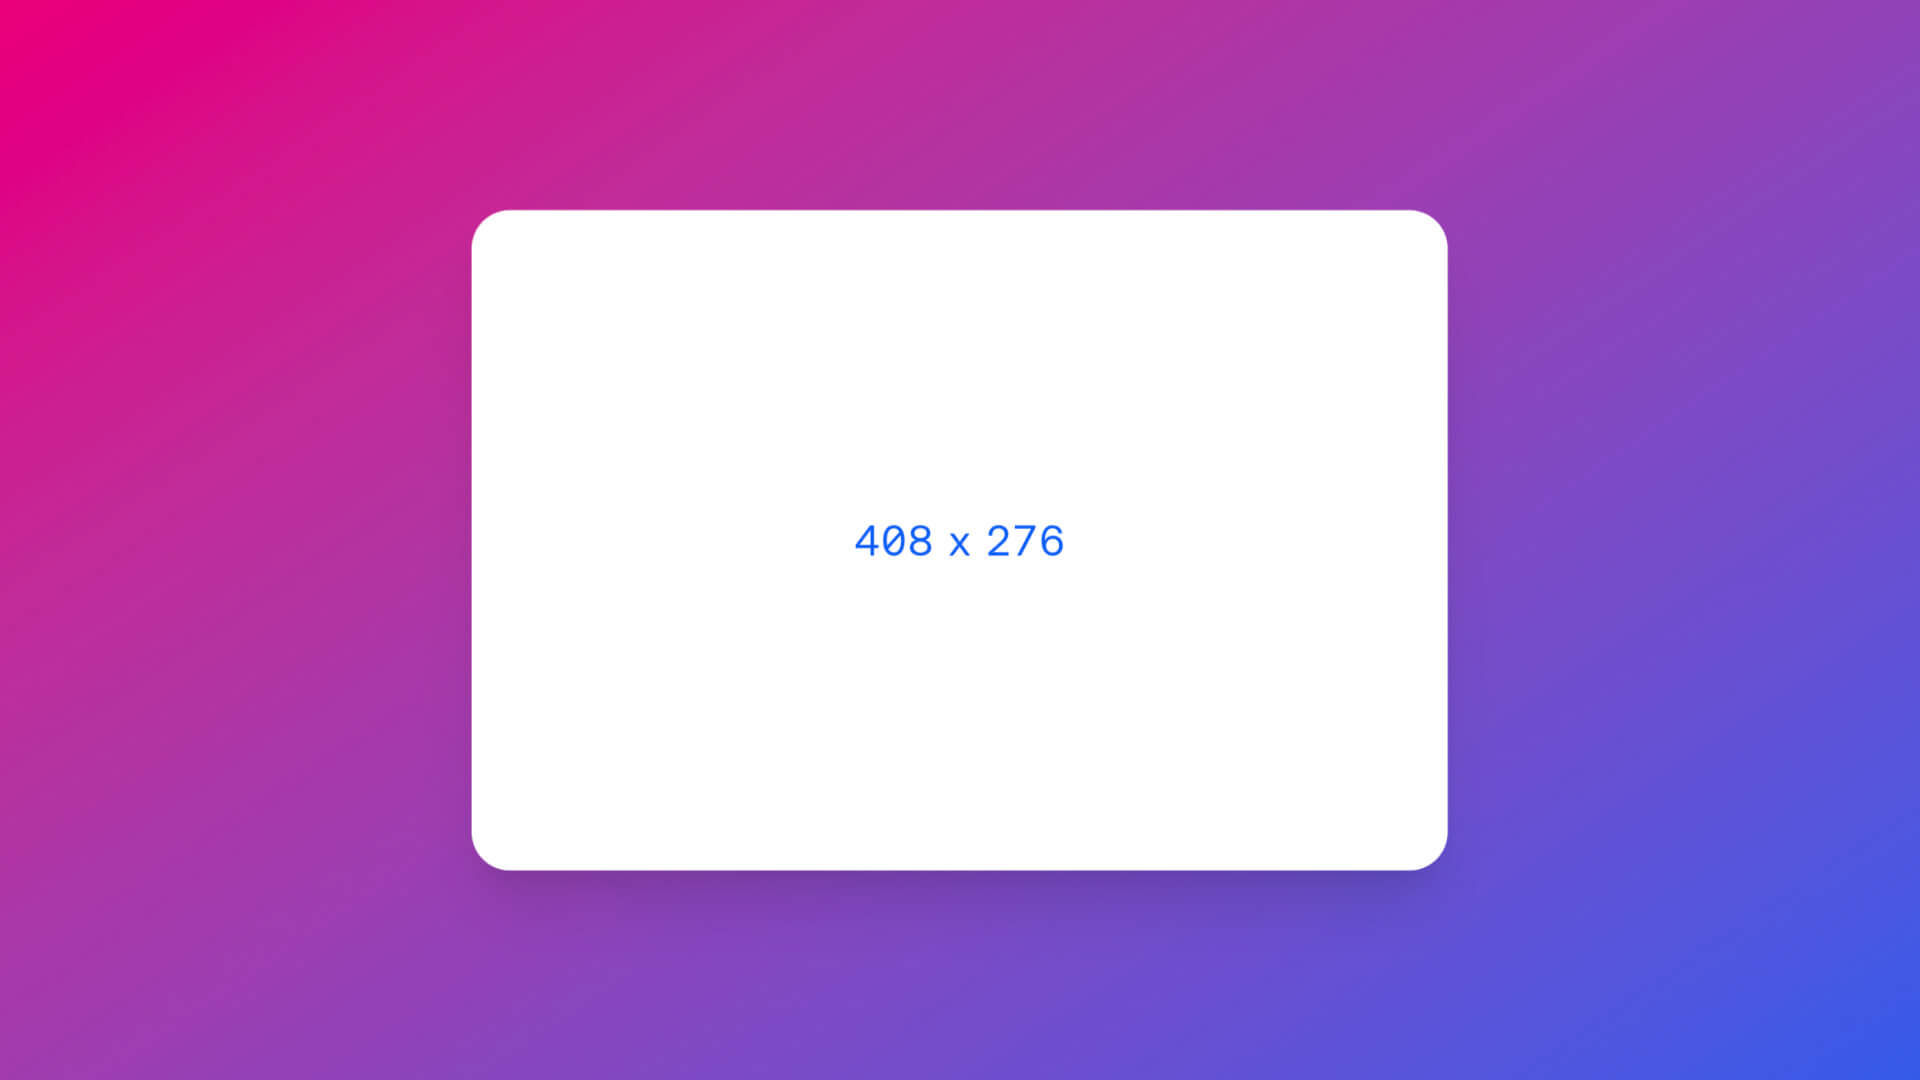
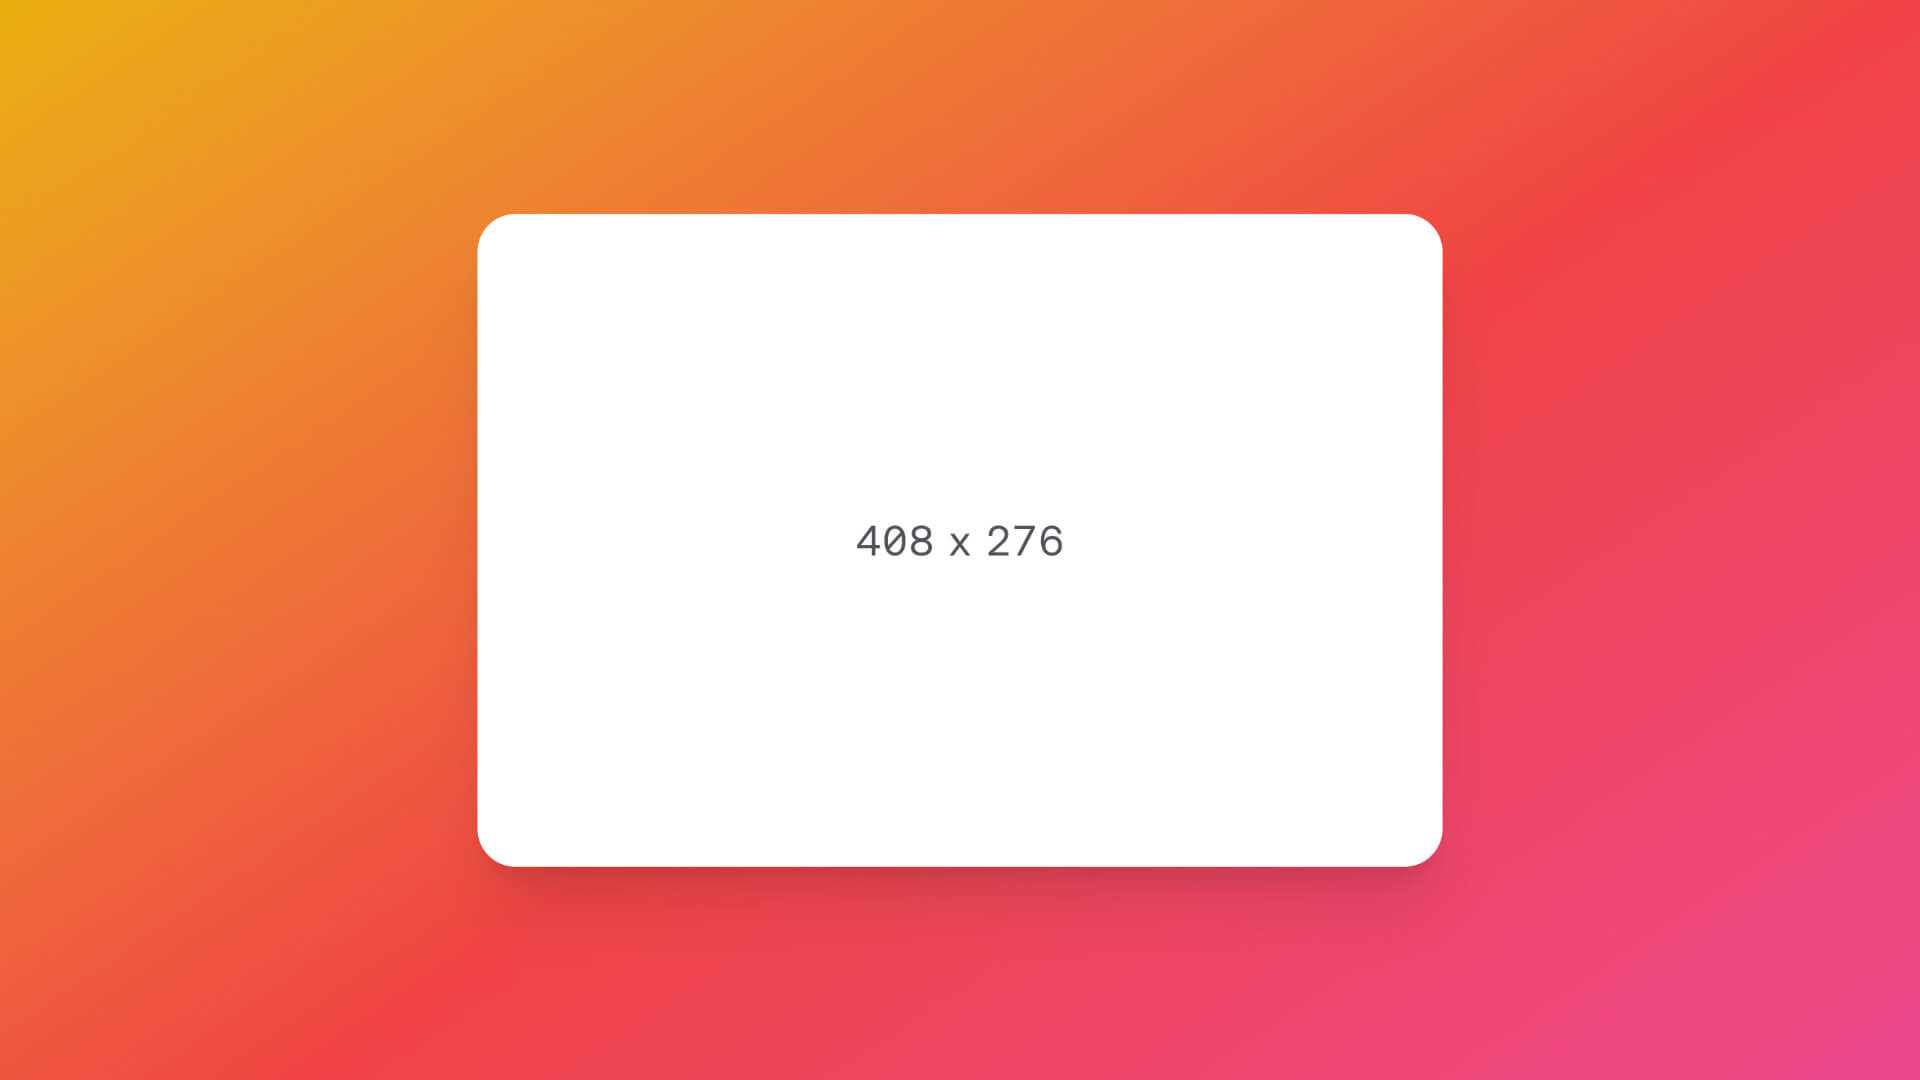
finished snippet cards

diff --git a/components/content/snippets/SnippetCard.tsx b/components/content/snippets/SnippetCard.tsx
@@ -3,6 +3,7 @@ import NextImage from "next/future/image";
 import Button from "components/content/shared/CardButton";
 import { type Snippet } from "contentlayer/generated";
 import { useState } from "react";
+import FrameworkBadge from "./FrameworkBadge";
 
 interface Props {
   data: Snippet;
@@ -25,27 +26,20 @@ const SnippetCard = ({ data }: Props) => {
               quality="60"
               alt="foo"
             ></NextImage>
-            <span className="absolute top-4 left-4 font-medium text-sm text-white p-2 bg-black/60 rounded-full backdrop-blur-md">
-              {/* {data.framework} */}
-              <svg
-                xmlns="http://www.w3.org/2000/svg"
-                viewBox="0 0 24 24"
-                xmlSpace="preserve"
-                className="w-6"
-              >
-                <path
-                  d="M13.961 12c0 1.083-.878 1.961-1.961 1.961-1.083 0-1.961-.878-1.961-1.961s.878-1.961 1.961-1.961c1.083 0 1.961.878 1.961 1.961zm4.415 3.682c.708 2.839.458 5.074-.876 5.844-.329.191-.701.284-1.109.284-.974 0-2.154-.535-3.433-1.575-.319-.26-.639-.553-.958-.863-.319.31-.639.604-.958.863-1.279 1.04-2.459 1.575-3.433 1.575-.408 0-.78-.093-1.109-.284-1.335-.77-1.585-3.006-.877-5.844C2.811 14.875 1 13.541 1 12c0-1.54 1.808-2.873 4.617-3.679-.11-.433-.205-.859-.27-1.268-.37-2.31.04-3.936 1.153-4.58 1.114-.643 2.726-.184 4.542 1.292.321.26.642.556.962.867 2.102-2.029 4.16-2.928 5.496-2.159 1.334.771 1.584 3.006.876 5.845C21.189 9.125 23 10.459 23 12s-1.811 2.875-4.624 3.682zM16.394 3.149c-.926 0-2.273.761-3.725 2.166.636.688 1.26 1.463 1.858 2.308 1.043.097 2.025.251 2.925.457.618-2.466.435-4.279-.43-4.779-.178-.102-.389-.152-.628-.152zM15.999 12c-.279-.578-.588-1.169-.934-1.769-.339-.588-.695-1.154-1.063-1.693-.641-.049-1.308-.077-2.002-.077-.694 0-1.36.028-2.001.076-.361.53-.718 1.093-1.064 1.693-.347.601-.656 1.193-.935 1.772.284.588.596 1.179.935 1.767.34.588.696 1.155 1.063 1.694.641.048 1.308.076 2.002.076.694 0 1.361-.028 2.002-.076.368-.54.724-1.106 1.063-1.694.346-.6.655-1.191.934-1.769zm-.107 2.247c-.216.375-.44.738-.669 1.094.702-.088 1.358-.205 1.97-.343-.186-.599-.413-1.225-.687-1.877-.194.374-.396.75-.614 1.126zm-2.613 2.218c-.42.019-.845.031-1.279.031-.434 0-.86-.012-1.28-.031.418.552.846 1.065 1.28 1.536.433-.471.861-.984 1.279-1.536zm-5.173-2.218c-.216-.374-.418-.75-.613-1.125-.274.652-.501 1.278-.687 1.877.612.138 1.267.255 1.969.343-.228-.357-.453-.72-.669-1.095zm0-4.495c.217-.376.441-.739.667-1.093-.702.088-1.358.206-1.97.344.191.61.421 1.236.69 1.874.194-.374.396-.749.613-1.125zm2.615-2.216c.42-.019.845-.031 1.279-.031.434 0 .86.012 1.28.031-.419-.553-.847-1.066-1.281-1.538-.424.46-.852.976-1.278 1.538zm5.785 3.342c.274-.651.501-1.278.687-1.876-.612-.138-1.268-.255-1.969-.343.228.357.452.719.668 1.094.218.376.42.751.614 1.125zM6.543 8.082c.901-.207 1.885-.362 2.929-.458.607-.857 1.232-1.631 1.862-2.309-.299-.29-.598-.565-.896-.807-1.098-.894-2.083-1.364-2.816-1.364-.244 0-.46.052-.644.158-.735.424-.985 1.736-.687 3.6.061.379.15.776.252 1.18zm-.664 6.68c.272-.883.629-1.81 1.067-2.762-.433-.939-.792-1.867-1.069-2.761-2.443.698-3.92 1.762-3.92 2.761 0 .999 1.478 2.064 3.922 2.762zm5.453 3.925c-.637-.688-1.261-1.464-1.859-2.31-1.043-.097-2.025-.251-2.926-.457-.618 2.466-.435 4.278.431 4.779.735.422 1.996-.016 3.46-1.206.298-.242.596-.517.894-.806zm6.12-2.767c-.9.206-1.883.361-2.926.457-.598.846-1.223 1.622-1.859 2.31.298.289.597.564.894.806 1.464 1.191 2.728 1.629 3.46 1.206.866-.501 1.049-2.314.431-4.779zM22.043 12c0-.999-1.479-2.064-3.923-2.762-.272.883-.629 1.81-1.067 2.762.438.952.795 1.88 1.067 2.762 2.445-.698 3.923-1.763 3.923-2.762z"
-                  fill="#61dafb"
-                />
-              </svg>
-            </span>
+            <div className="absolute top-4 left-4 p-2 bg-black/60 rounded-full backdrop-blur-md">
+              <div className="w-6">
+                <FrameworkBadge lang={data.framework} />
+              </div>
+            </div>
           </div>
           <div className="relative flex flex-col items-start gap-y-3 grow p-4 pt-6 pb-24 w-full">
             <h3 className="font-bold text-2xl">{data.title}</h3>
             <p className="text-sm">{data.summary}</p>
             <div className="absolute left-4 right-4 bottom-4 flex justify-between items-center border-t border-black/10 dark:border-white/20 pt-4">
               <Button focusable={false} trigger={count}></Button>
-              <h6 className="font-medium tracking-wider text-sm">07.08.22</h6>
+              <h6 className="font-medium tracking-wider text-sm">
+                {data.date}
+              </h6>
             </div>
           </div>
         </a>

diff --git a/components/svg/ReactBadge.tsx b/components/svg/ReactBadge.tsx
@@ -1,0 +1,16 @@
+const ReactBadge = () => {
+  return (
+    <svg
+      xmlns="http://www.w3.org/2000/svg"
+      viewBox="0 0 24 24"
+      xmlSpace="preserve"
+    >
+      <path
+        d="M13.961 12c0 1.083-.878 1.961-1.961 1.961-1.083 0-1.961-.878-1.961-1.961s.878-1.961 1.961-1.961c1.083 0 1.961.878 1.961 1.961zm4.415 3.682c.708 2.839.458 5.074-.876 5.844-.329.191-.701.284-1.109.284-.974 0-2.154-.535-3.433-1.575-.319-.26-.639-.553-.958-.863-.319.31-.639.604-.958.863-1.279 1.04-2.459 1.575-3.433 1.575-.408 0-.78-.093-1.109-.284-1.335-.77-1.585-3.006-.877-5.844C2.811 14.875 1 13.541 1 12c0-1.54 1.808-2.873 4.617-3.679-.11-.433-.205-.859-.27-1.268-.37-2.31.04-3.936 1.153-4.58 1.114-.643 2.726-.184 4.542 1.292.321.26.642.556.962.867 2.102-2.029 4.16-2.928 5.496-2.159 1.334.771 1.584 3.006.876 5.845C21.189 9.125 23 10.459 23 12s-1.811 2.875-4.624 3.682zM16.394 3.149c-.926 0-2.273.761-3.725 2.166.636.688 1.26 1.463 1.858 2.308 1.043.097 2.025.251 2.925.457.618-2.466.435-4.279-.43-4.779-.178-.102-.389-.152-.628-.152zM15.999 12c-.279-.578-.588-1.169-.934-1.769-.339-.588-.695-1.154-1.063-1.693-.641-.049-1.308-.077-2.002-.077-.694 0-1.36.028-2.001.076-.361.53-.718 1.093-1.064 1.693-.347.601-.656 1.193-.935 1.772.284.588.596 1.179.935 1.767.34.588.696 1.155 1.063 1.694.641.048 1.308.076 2.002.076.694 0 1.361-.028 2.002-.076.368-.54.724-1.106 1.063-1.694.346-.6.655-1.191.934-1.769zm-.107 2.247c-.216.375-.44.738-.669 1.094.702-.088 1.358-.205 1.97-.343-.186-.599-.413-1.225-.687-1.877-.194.374-.396.75-.614 1.126zm-2.613 2.218c-.42.019-.845.031-1.279.031-.434 0-.86-.012-1.28-.031.418.552.846 1.065 1.28 1.536.433-.471.861-.984 1.279-1.536zm-5.173-2.218c-.216-.374-.418-.75-.613-1.125-.274.652-.501 1.278-.687 1.877.612.138 1.267.255 1.969.343-.228-.357-.453-.72-.669-1.095zm0-4.495c.217-.376.441-.739.667-1.093-.702.088-1.358.206-1.97.344.191.61.421 1.236.69 1.874.194-.374.396-.749.613-1.125zm2.615-2.216c.42-.019.845-.031 1.279-.031.434 0 .86.012 1.28.031-.419-.553-.847-1.066-1.281-1.538-.424.46-.852.976-1.278 1.538zm5.785 3.342c.274-.651.501-1.278.687-1.876-.612-.138-1.268-.255-1.969-.343.228.357.452.719.668 1.094.218.376.42.751.614 1.125zM6.543 8.082c.901-.207 1.885-.362 2.929-.458.607-.857 1.232-1.631 1.862-2.309-.299-.29-.598-.565-.896-.807-1.098-.894-2.083-1.364-2.816-1.364-.244 0-.46.052-.644.158-.735.424-.985 1.736-.687 3.6.061.379.15.776.252 1.18zm-.664 6.68c.272-.883.629-1.81 1.067-2.762-.433-.939-.792-1.867-1.069-2.761-2.443.698-3.92 1.762-3.92 2.761 0 .999 1.478 2.064 3.922 2.762zm5.453 3.925c-.637-.688-1.261-1.464-1.859-2.31-1.043-.097-2.025-.251-2.926-.457-.618 2.466-.435 4.278.431 4.779.735.422 1.996-.016 3.46-1.206.298-.242.596-.517.894-.806zm6.12-2.767c-.9.206-1.883.361-2.926.457-.598.846-1.223 1.622-1.859 2.31.298.289.597.564.894.806 1.464 1.191 2.728 1.629 3.46 1.206.866-.501 1.049-2.314.431-4.779zM22.043 12c0-.999-1.479-2.064-3.923-2.762-.272.883-.629 1.81-1.067 2.762.438.952.795 1.88 1.067 2.762 2.445-.698 3.923-1.763 3.923-2.762z"
+        fill="#61dafb"
+      />
+    </svg>
+  );
+};
+
+export default ReactBadge;

diff --git a/components/svg/SvelteBadge.tsx b/components/svg/SvelteBadge.tsx
@@ -1,0 +1,20 @@
+const SvelteBadge = () => {
+  return (
+    <svg
+      xmlns="http://www.w3.org/2000/svg"
+      viewBox="0 0 24 24"
+      xmlSpace="preserve"
+    >
+      <path
+        d="M19.949 3.91C17.917.984 13.872.126 10.965 1.971L5.839 5.252c-1.398.876-2.367 2.312-2.647 3.933-.242 1.361-.037 2.759.615 3.97-.447.671-.746 1.417-.876 2.199-.298 1.659.093 3.374 1.062 4.735 2.05 2.926 6.077 3.784 8.984 1.939l5.126-3.262c1.398-.876 2.367-2.311 2.647-3.933.242-1.361.037-2.759-.615-3.97.447-.671.746-1.417.876-2.199.317-1.678-.074-3.393-1.062-4.754"
+        fill="#ff3e00"
+      />
+      <path
+        d="M10.461 20.369c-1.659.429-3.392-.224-4.362-1.622-.596-.82-.82-1.845-.652-2.852.037-.168.075-.317.112-.485l.093-.298.261.186c.615.447 1.286.783 2.013 1.007l.186.056-.019.186c-.019.261.056.541.205.764.298.429.82.634 1.323.503.112-.037.224-.075.317-.13l5.107-3.262c.261-.168.429-.41.485-.708.056-.298-.019-.615-.186-.857-.298-.429-.82-.615-1.323-.485-.112.037-.224.075-.317.13l-1.957 1.249c-.317.205-.671.354-1.044.447-1.659.429-3.392-.224-4.362-1.622-.578-.82-.82-1.845-.634-2.852.168-.969.764-1.845 1.603-2.367l5.126-3.262c.317-.205.671-.354 1.044-.466 1.659-.429 3.392.224 4.362 1.622.596.82.82 1.845.652 2.852-.037.168-.075.317-.13.485l-.093.298-.261-.186c-.615-.447-1.286-.783-2.013-1.007l-.186-.056.019-.186c.019-.261-.056-.541-.205-.764-.298-.429-.82-.615-1.323-.485-.112.037-.224.075-.317.13L8.877 9.595c-.261.168-.429.41-.485.708-.056.298.019.615.186.857.298.429.82.615 1.323.485.112-.037.224-.075.317-.13l1.957-1.249c.317-.205.671-.354 1.044-.466 1.659-.429 3.392.224 4.362 1.622.596.82.82 1.845.652 2.852-.168.969-.764 1.845-1.603 2.367l-5.126 3.262c-.316.205-.67.354-1.043.466"
+        fill="#fff"
+      />
+    </svg>
+  );
+};
+
+export default SvelteBadge;

diff --git a/pages/snippets/index.tsx b/pages/snippets/index.tsx
@@ -1,13 +1,18 @@
 import { type GetStaticProps, type InferGetStaticPropsType } from "next";
 import Head from "next/head";
 import { allSnippets, type Snippet } from "contentlayer/generated";
+import { formatSnippetPreview, sortContentByDate } from "lib/contentlayer";
 import Wrapper from "components/global/Wrapper";
 import SnippetCard from "components/content/snippets/SnippetCard";
 
-export const getStaticProps: GetStaticProps<{
-  snippets: Snippet[];
-}> = () => {
-  return { props: { snippets: allSnippets } };
+export const getStaticProps = () => {
+  const allSnippetsPreview = allSnippets.map((snippet) => {
+    return formatSnippetPreview(snippet);
+  });
+
+  const allSnippetsSorted = sortContentByDate(allSnippetsPreview);
+
+  return { props: { snippets: allSnippetsSorted } };
 };
 
 const SnippetIndex = ({
@@ -26,10 +31,13 @@ const SnippetIndex = ({
       <main className="pt-40">
         <Wrapper>
           <>
-            <h1 className="font-bold text-5xl mb-6">All Snippets</h1>
-            <div className="grid md:grid-cols-2 xl:grid-cols-3 auto-rows-fr gap-x-4 mt-2">
+            <h1 className="font-bold text-5xl mb-8">All Snippets</h1>
+            <div className="grid md:grid-cols-2 xl:grid-cols-3 auto-rows-fr gap-y-5 gap-x-4 mt-2">
               {snippets.map((snippet) => (
-                <SnippetCard data={snippet} key={snippet.title}></SnippetCard>
+                <SnippetCard
+                  data={snippet as Snippet}
+                  key={snippet.title}
+                ></SnippetCard>
               ))}
             </div>
           </>

diff --git a/lib/contentlayer.ts b/lib/contentlayer.ts
@@ -1,10 +1,11 @@
 import { pick } from "contentlayer/client";
-import { Post } from "contentlayer/generated";
+import { Post, Snippet } from "contentlayer/generated";
 
 export type PostPreview = ReturnType<typeof formatPostPreview>;
+export type SnippetPreview = ReturnType<typeof formatSnippetPreview>;
 
 export const formatPostPreview = (post: Post) => {
-  const partialPost = pick(post, [
+  const postPreview = pick(post, [
     "title",
     "date",
     "image",
@@ -14,13 +15,31 @@ export const formatPostPreview = (post: Post) => {
   ]);
 
   return {
-    ...partialPost,
-    tags: partialPost.tags || [],
-    image: partialPost.image || null,
+    ...postPreview,
+    tags: postPreview.tags || [],
+    image: postPreview.image || null,
   };
 };
 
-export function sortPostsByDate(posts: Post[] | PostPreview[]) {
+export const formatSnippetPreview = (snippet: Snippet) => {
+  const snippetPreview = pick(snippet, [
+    "title",
+    "date",
+    "image",
+    "summary",
+    "slug",
+    "framework",
+  ]);
+
+  return {
+    ...snippetPreview,
+    // image: snippetPreview.image || null,
+  };
+};
+
+export function sortContentByDate(
+  posts: Post[] | PostPreview[] | Snippet[] | SnippetPreview[]
+) {
   return posts.sort(
     (a, b) => Number(new Date(b.date)) - Number(new Date(a.date))
   );

diff --git a/components/svg/JsBadge.tsx b/components/svg/JsBadge.tsx
@@ -1,0 +1,16 @@
+const JsBadge = () => {
+  return (
+    <svg
+      xmlns="http://www.w3.org/2000/svg"
+      viewBox="0 0 24 24"
+      xmlSpace="preserve"
+    >
+      <path
+        d="M13.776 14.696c.581.948 1.336 1.645 2.673 1.645 1.123 0 1.84-.561 1.84-1.336 0-.929-.737-1.258-1.972-1.798l-.677-.291c-1.955-.833-3.254-1.876-3.254-4.082 0-2.032 1.548-3.579 3.968-3.579 1.722 0 2.961.599 3.853 2.169l-2.11 1.355c-.464-.833-.966-1.161-1.744-1.161-.794 0-1.296.503-1.296 1.161 0 .813.503 1.142 1.666 1.645l.677.29c2.3.987 3.6 1.993 3.6 4.256 0 2.439-1.916 3.775-4.489 3.775-2.516 0-4.141-1.199-4.937-2.77l2.202-1.279zm-9.571.234c.426.755.813 1.393 1.744 1.393.89 0 1.452-.348 1.452-1.702V5.41h2.709v9.249c0 2.805-1.645 4.082-4.045 4.082-2.169 0-3.425-1.123-4.064-2.475l2.204-1.336z"
+        fill="#f7df1e"
+      />
+    </svg>
+  );
+};
+
+export default JsBadge;

diff --git a/components/content/snippets/ReactResizeObserver.tsx b/components/content/snippets/ReactResizeObserver.tsx
@@ -32,12 +32,12 @@ const ReactResizeObserver = () => {
   return (
     <div
       ref={container}
-      className="bg-gradient-to-br from-pink-600 to-blue-600 lg:-mx-12 my-10"
+      className="bg-gradient-to-tl from-pink-500 via-red-500 to-yellow-500 lg:-mx-12 my-10"
     >
       <div className="flex justify-center items-center w-full min-h-[360px] lg:min-h-[480px]">
         <div
           ref={observed}
-          className="flex justify-center items-center font-mono tabular-nums text-lg text-blue-600 bg-white rounded-2xl shadow-xl"
+          className="flex justify-center items-center font-mono tabular-nums text-lg text-gray-600 bg-white rounded-2xl shadow-xl"
           style={{ width: sizeX.value, height: sizeY.value }}
         >
           {Math.round(width)} x {Math.round(height)}

diff --git a/pages/posts/index.tsx b/pages/posts/index.tsx
@@ -1,7 +1,7 @@
 import { InferGetStaticPropsType } from "next";
 import Head from "next/head";
 import { allPosts, Post } from "contentlayer/generated";
-import { formatPostPreview, sortPostsByDate } from "lib/contentlayer";
+import { formatPostPreview, sortContentByDate } from "lib/contentlayer";
 import PostCard from "components/content/posts/PostCard";
 
 export const getStaticProps = () => {
@@ -9,7 +9,7 @@ export const getStaticProps = () => {
     return formatPostPreview(post);
   });
 
-  const allPostsSorted = sortPostsByDate(allPostsPreview);
+  const allPostsSorted = sortContentByDate(allPostsPreview);
 
   return { props: { posts: allPostsSorted } };
 };

diff --git a/contentlayer.config.ts b/contentlayer.config.ts
@@ -54,8 +54,13 @@ export const Snippet = defineDocumentType(() => ({
   fields: {
     title: { type: "string", required: true },
     summary: { type: "string", required: true },
-    framework: { type: "enum", options: ["React", "Svelte"], required: true },
+    framework: {
+      type: "enum",
+      options: ["React", "Svelte", "Javascript"],
+      required: true,
+    },
     image: { type: "string", required: true },
+    date: { type: "string", required: true },
   },
 }));
 

diff --git a/components/content/snippets/FrameworkBadge.tsx b/components/content/snippets/FrameworkBadge.tsx
@@ -1,0 +1,11 @@
+import JsBadge from "components/svg/JsBadge";
+import ReactBadge from "components/svg/ReactBadge";
+import SvelteBadge from "components/svg/SvelteBadge";
+
+const FrameworkBadge = ({ lang = "React" }) => {
+  if (lang === "Javascript") return <JsBadge />;
+  else if (lang === "Svelte") return <SvelteBadge />;
+  else return <ReactBadge />;
+};
+
+export default FrameworkBadge;
